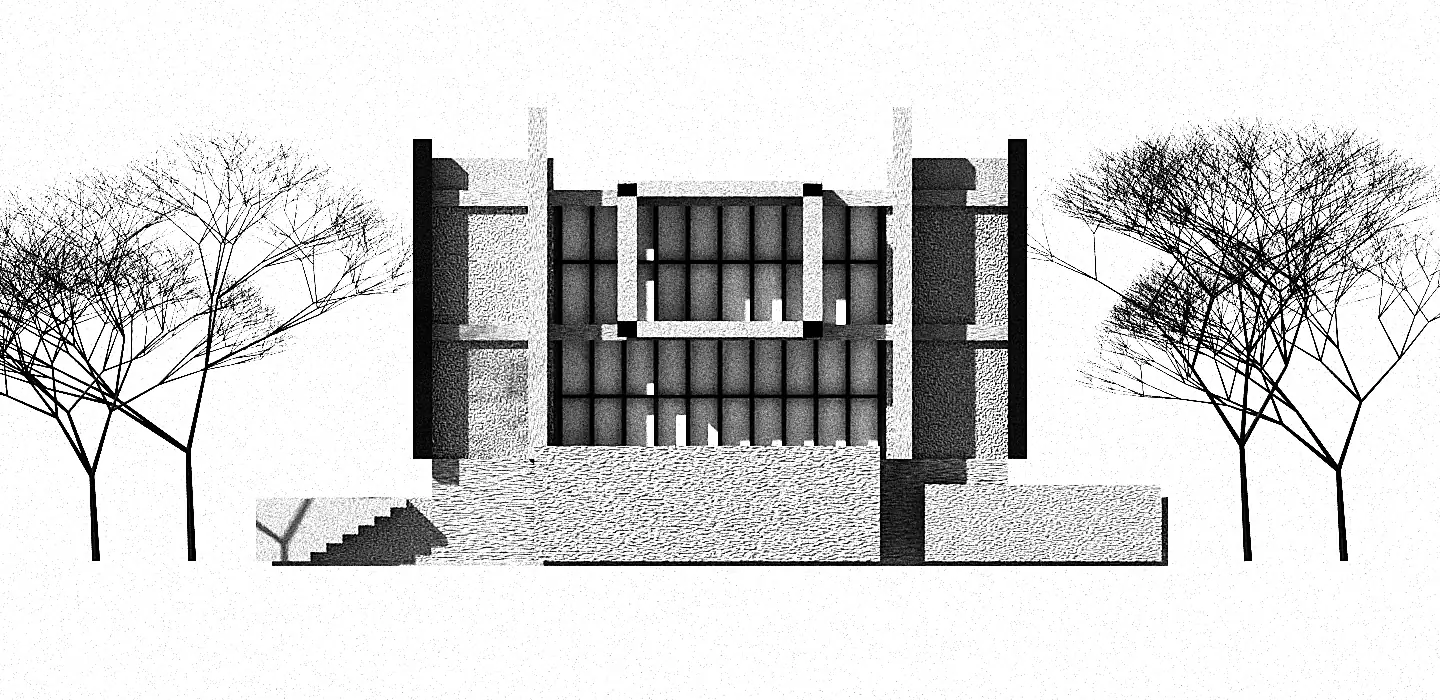
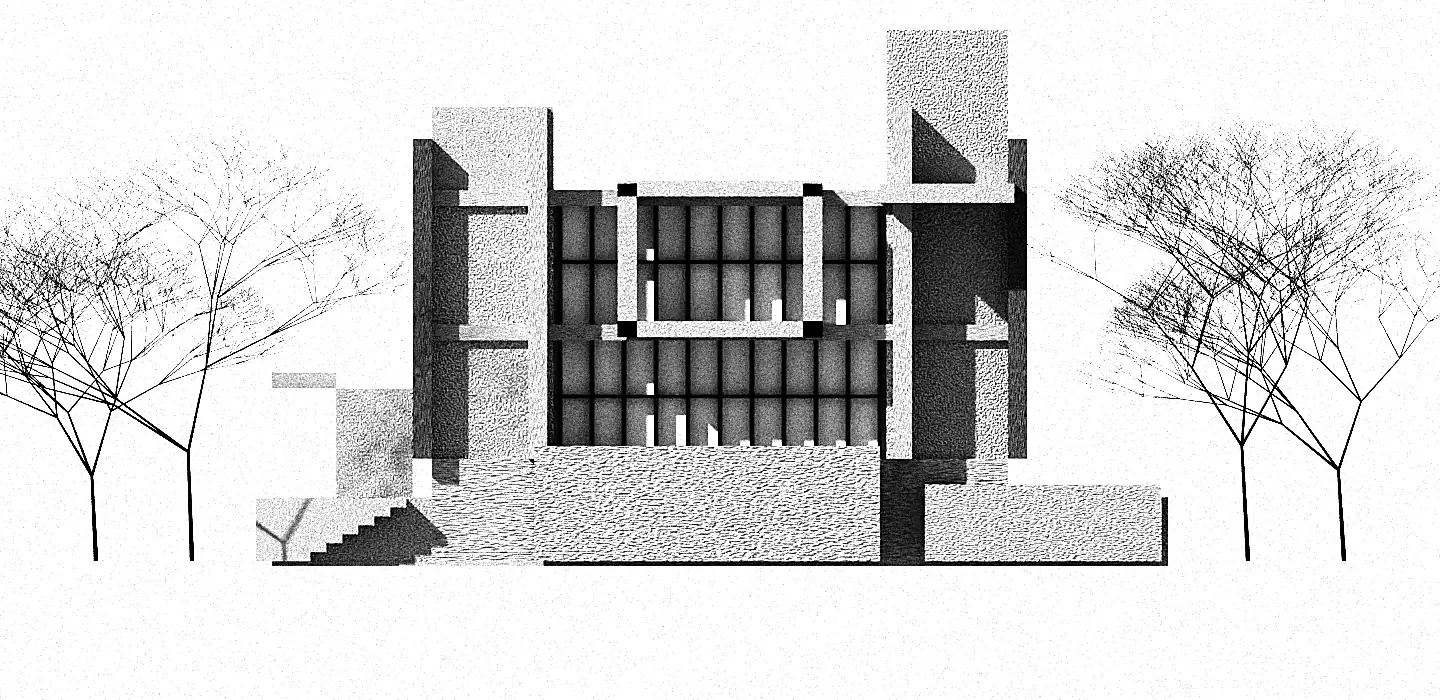
r368: hero raster v2 (stepped massing, lighter fins, thin trunks) and stations re-pinned

diff --git a/scripts/art/blender/hero.py b/scripts/art/blender/hero.py
@@ -36,6 +36,7 @@ def mat(name, col, rough=0.9, tex=None, glass=False):
     return m
 concrete = mat('c',(0.62,0.62,0.6),0.95,tex=60)
 dark = mat('d',(0.03,0.03,0.03),0.5)
+fin = mat('f',(0.22,0.22,0.21),0.9,tex=40)
 glass = mat('g',(0.4,0.45,0.5),glass=True)
 def box(x0,x1,y0,y1,z0,z1,m):
     bpy.ops.mesh.primitive_cube_add()
@@ -62,8 +63,8 @@ for lvl,z0 in enumerate((3.2,7.4)):
     box(-5.2,5.2,0.6,1.3,z0+1.9,z0+2.0,dark)
 # big fins
 for x in (-9.3,-4.3,-0.6,0.6,4.3,9.3): pass
-box(-9.6,-9.0,-0.6,6,3.2,13.2,dark)
-box(9.0,9.6,-0.6,6,3.2,13.2,dark)
+box(-9.6,-9.0,-0.6,6,3.2,13.2,fin)
+box(9.0,9.6,-0.6,6,3.2,13.2,fin)
 box(-6.0,-5.4,-1.2,6,3.2,14.2,concrete); box(5.4,6.0,-1.2,6,3.2,14.2,concrete)
 # projecting centre frame
 box(-3.2,3.2,-1.4,-0.2,7.0,7.5,concrete); box(-3.2,-2.6,-1.4,-0.2,7.0,11.8,concrete)
@@ -72,6 +73,8 @@ box(2.6,3.2,-1.4,-0.2,7.0,11.8,concrete); box(-3.2,3.2,-1.4,-0.2,11.4,11.9,concr
 box(-9,-5.2,0.2,5.8,11.6,12.6,concrete); box(5.2,9,0.2,5.8,11.6,12.6,concrete)
 # retaining walls front
 box(-5.8,5.0,-2.2,-0.2,0,3.6,concrete); box(6.4,13.8,-1.5,-0.2,0,2.4,concrete)
+# massing variety: taller right tower block, left setback, deep cantilever
+box(5.2,9,0.2,5.8,12.6,16.6,concrete); box(5.0,9.2,-2.6,0.2,11.2,11.8,concrete); box(-9,-5.2,0.2,5.8,12.6,14.2,concrete); box(-12,-9.6,0.2,3,2.0,5.4,concrete); box(-14,-12,0.2,2.5,5.4,5.9,concrete)
 # trees (bare, thin branches)
 import bmesh
 from mathutils import Vector, Matrix
@@ -85,7 +88,7 @@ def tree(x,h):
         for _ in range(3 if dep>2 else 2):
             nd=Vector((d.x+random.uniform(-1.1,1.1),random.uniform(-.2,.2),d.z*0.55+random.uniform(0.0,.6))).normalized()
             br(q,nd,L*0.8,t*0.6,dep-1)
-    br(Vector((x,-3.0,0)),(random.uniform(-.1,.1),0,1),h*0.38,0.13,8)
+    br(Vector((x,-3.0,0)),(random.uniform(-.1,.1),0,1),h*0.38,0.075,8)
     me=bpy.data.meshes.new('t'); bm.to_mesh(me); o=bpy.data.objects.new('t',me); o.data.materials.append(dark)
     bpy.context.collection.objects.link(o)
 tree(-16.5,9); tree(16.5,9.5); tree(-19.5,7); tree(19.5,7.5)

diff --git a/docs/redesign/r368/LEDGER.md b/docs/redesign/r368/LEDGER.md
@@ -149,3 +149,4 @@ NEXT: origin/main sync ~9:50pm; remaining gaps 06 layout, hero photo look, no-co
 - r368 UX: capability panel frame now opens at 0.66 together with head (blank window 0.02); caption and first plaque are sequenced (never overlap). r306 keyframe whitelist gets jt-plat-dash/float (reason in test). Status: FAILING overall.
 - r368 hero: projecting mid-level slab with railing ticks, paired mullion fins, darker ground course (svg gzip 47.4KB). Still a drawing vs photo. Status: FAILING overall.
 - r368 hero: desktop elevation is now a Blender/Cycles raster + ink post-process (scripts/art/blender); dark via existing invert; NEXT: apply same pipeline to 06/07 plates, simplify other paths
+- r368 hero v2: stepped massing, lighter fins, thin trunks, stations re-pinned (mirrored raster coords)
